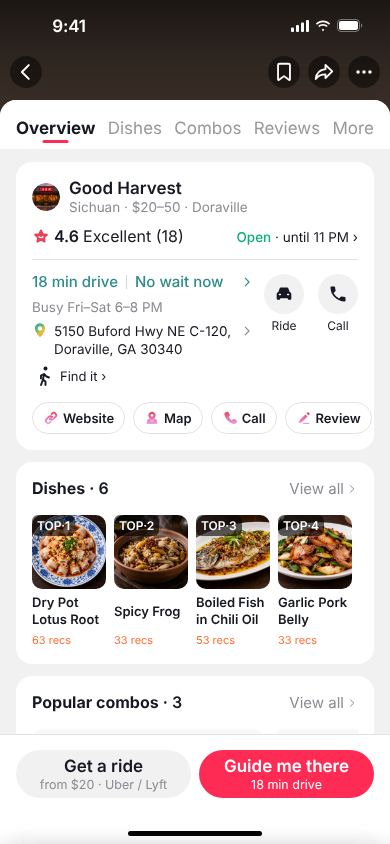
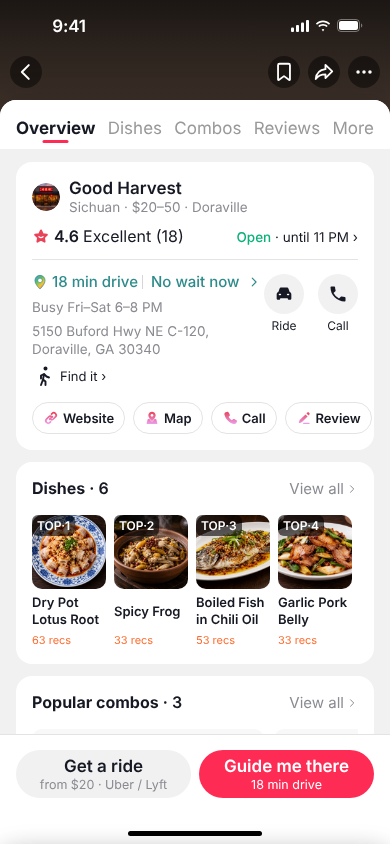
Address block to Figma 140:6873: pin leads the drive/wait row, address plain grey without chevron, divider fixed
Claude-Session: https://claude.ai/code/session_01Q6z36aYFBjH3xCc6Ygpjkp

Changed region(s): [[0.0923, 0.3697, 0.5846, 0.4313], [0.0923, 0.3081, 0.6154, 0.3389]]

diff --git a/index.html b/index.html
@@ -79,7 +79,7 @@
           <div class="stats-capsule half-only"><button data-act="reviews"><small>18 reviews</small><b><span class="ic heart" data-i="star"></span>4.6 Excellent</b></button><i></i><button data-act="demo"><small>Hours</small><b class="reg">12–11 PM</b></button><i></i><button data-act="demo"><small>Per person</small><b>$35</b></button></div>
           <div class="overview-details full-only">
             <div class="rating-line"><span class="rt"><span class="ic" data-i="star"></span><b>4.6</b> Excellent (18)</span><button data-act="demo"><em>Open</em> · until 11 PM ›</button></div>
-            <div class="address-actions"><div class="address-copy"><button class="drive-wait" data-act="demo"><span>18 min drive</span><i></i><span>No wait now</span><span class="ic sm" data-i="chev"></span></button><p>Busy Fri–Sat 6–8 PM</p><button class="street" data-act="dir"><span class="ic" data-i="pin"></span><span class="txt">5150 Buford Hwy NE C-120, Doraville, GA 30340</span><span class="ic sm" data-i="chev"></span></button><button class="find-it" data-act="guide"><span class="ic" data-i="walk"></span>Find it ›</button></div><div class="address-shortcuts"><button data-act="ride"><span class="ic" data-i="car"></span>Ride</button><button data-act="demo"><span class="ic" data-i="phoneDark"></span>Call</button></div></div>
+            <div class="address-actions"><div class="address-copy"><button class="drive-wait" data-act="demo"><span class="ic pin" data-i="pin"></span><span>18 min drive</span><span class="vd"></span><span>No wait now</span><span class="ic sm" data-i="chev"></span></button><p>Busy Fri–Sat 6–8 PM</p><button class="street" data-act="dir"><span class="txt">5150 Buford Hwy NE C-120, Doraville, GA 30340</span></button><button class="find-it" data-act="guide"><span class="ic" data-i="walk"></span>Find it ›</button></div><div class="address-shortcuts"><button data-act="ride"><span class="ic" data-i="car"></span>Ride</button><button data-act="demo"><span class="ic" data-i="phoneDark"></span>Call</button></div></div>
             <div class="pills"><button data-act="demo"><span class="ic" data-i="website"></span>Website</button><button data-act="dir"><span class="ic" data-i="map"></span>Map</button><button data-act="demo"><span class="ic" data-i="call"></span>Call</button><button data-act="reviews"><span class="ic" data-i="review"></span>Review</button></div>
           </div>
         </section>

diff --git a/styles.css b/styles.css
@@ -361,9 +361,9 @@ body.mouse #phone,body.mouse #phone *{cursor:none!important}
 .rating-line{justify-content:space-between;margin:10px 0 12px;padding-bottom:12px;border-bottom:1px solid #E3E3E4;font-size:16px;line-height:21px;white-space:nowrap}.rating-line .rt{gap:4px}.rating-line .rt b{font-weight:600}.rating-line svg{width:18px;height:18px}
 .rating-line button{font-size:13.5px;line-height:18px}.rating-line em{font-weight:500}.rating-line em{font-style:normal;color:#0BB07B}
 .address-actions{display:flex;gap:10px}.address-copy{min-width:0;flex:1;display:flex;flex-direction:column;gap:6px}
-.drive-wait{display:flex;align-items:center;gap:8px;width:100%;color:#2E8B8B;font-size:15px;line-height:20px;font-weight:500;white-space:nowrap}.drive-wait i{display:block;width:1px;height:14px;background:#D6D6D8}.drive-wait .ic{margin-left:auto}.drive-wait .ic svg path{stroke:#2E8B8B}
+.drive-wait{display:flex;align-items:center;gap:8px;width:100%;color:#2E8B8B;font-size:15px;line-height:20px;font-weight:500;white-space:nowrap}.drive-wait .vd{display:block;width:1px;height:14px;background:#D6D6D8;flex:none}.drive-wait .ic.sm{margin-left:auto}.drive-wait .pin{margin-right:-4px}.drive-wait .pin svg{width:16px;height:16px}.drive-wait .vd{margin-left:-4px}.drive-wait .ic svg path{stroke:#2E8B8B}
 .address-copy>p{font-size:13.5px;line-height:18px;color:var(--sub)}
-.street{display:flex;align-items:flex-start;gap:6px;font-size:13.5px;line-height:18px;width:100%}.street .txt{flex:1;min-width:0}.street .ic.sm{height:18px;align-items:center}
+.street{display:flex;align-items:flex-start;gap:6px;font-size:13.5px;line-height:18px;width:100%;color:var(--sub);text-align:left}.street .txt{flex:1;min-width:0}.street .ic.sm{height:18px;align-items:center}
 .street svg{width:16px;height:16px}.find-it{display:flex;gap:4px;align-items:center;font-size:13px;line-height:18px;margin:0}
 .address-shortcuts{display:flex;gap:14px;align-items:flex-start;align-self:flex-start;padding-top:2px}
 .address-shortcuts button{display:flex;align-items:center;flex-direction:column;gap:4px;font-size:12px}
